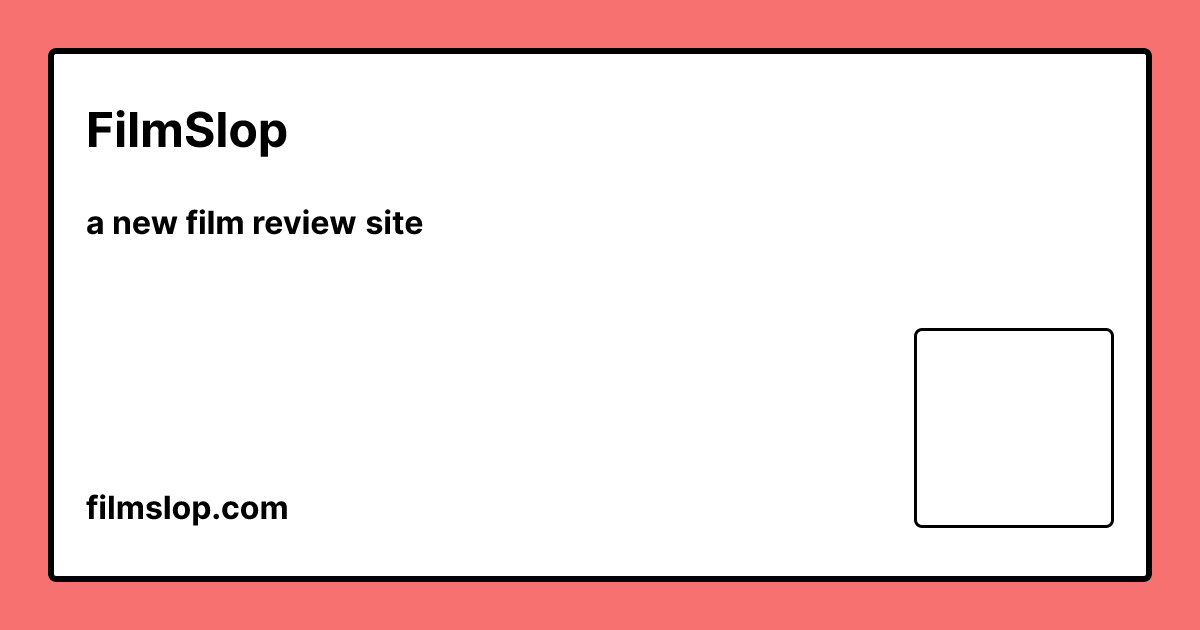
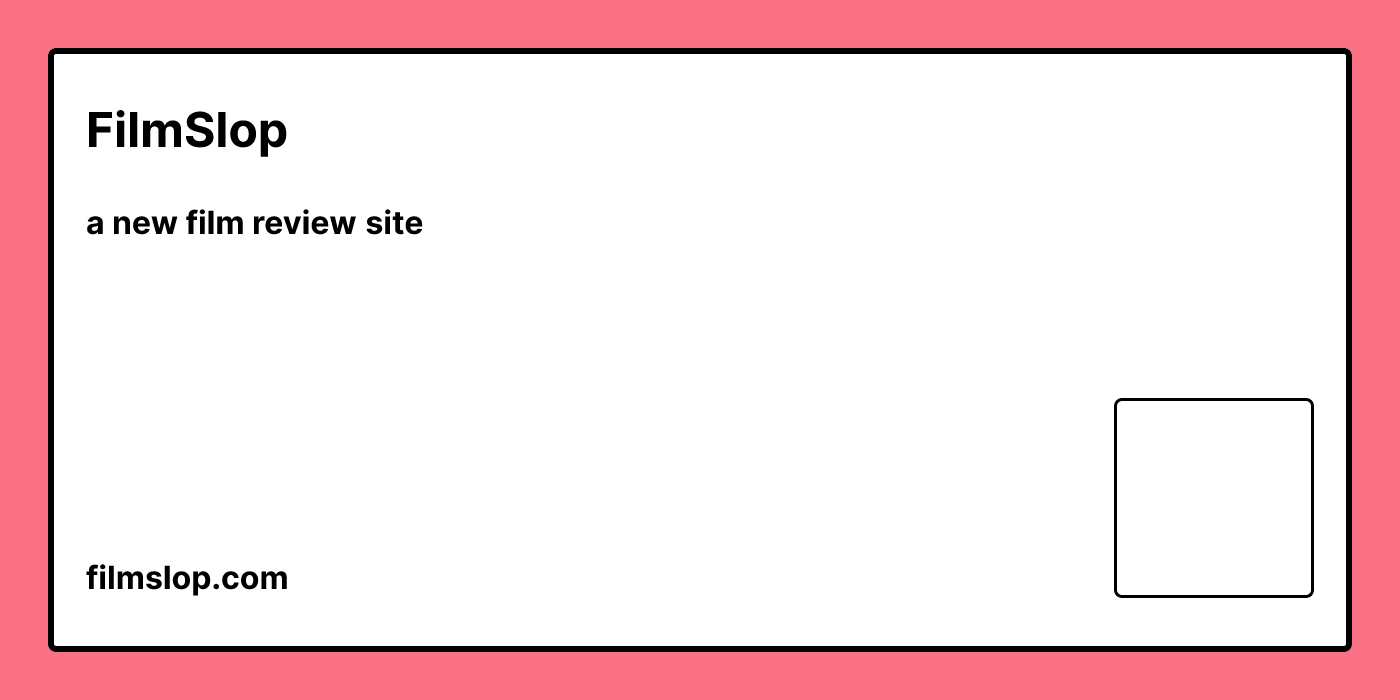
please. please.

Changed region(s): [[0.0308, 0.0603, 0.9867, 0.9349]]

diff --git a/src/pages/v1/generate/og/default.png.ts b/src/pages/v1/generate/og/default.png.ts
@@ -10,8 +10,8 @@ const fontFile = await fetch(
 
 const fontData: ArrayBuffer = await fontFile.arrayBuffer();
 
-const height = 630;
-const width = 1200;
+const height = 700;
+const width = 1400;
 
 export const get: APIRoute = async () => {
 	const bgColor = Config.colors[Math.floor(Math.random() * Config.colors.length)];

diff --git a/src/pages/v1/generate/og/[slug].png.ts b/src/pages/v1/generate/og/[slug].png.ts
@@ -10,8 +10,8 @@ const fontFile = await fetch(
 );
 const fontData: ArrayBuffer = await fontFile.arrayBuffer();
 
-const height = 630;
-const width = 1200;
+const height = 700;
+const width = 1400;
 
 const posts = await getCollection("blog");
 
